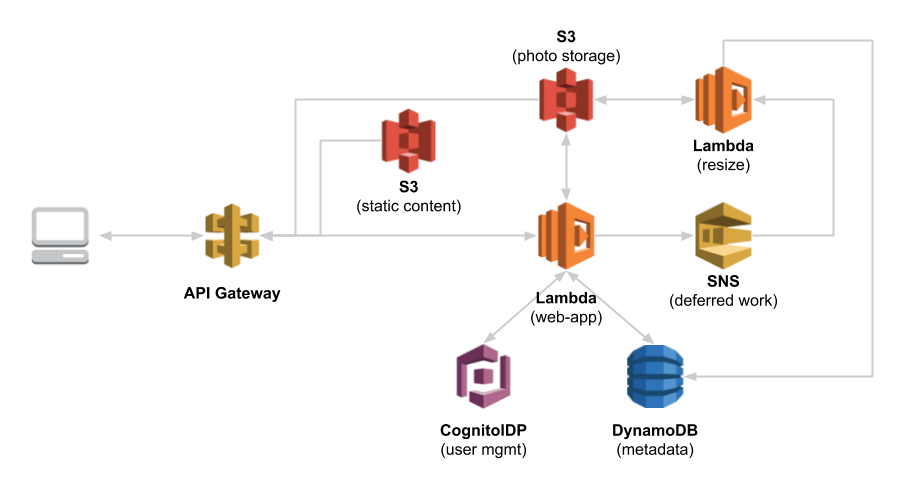
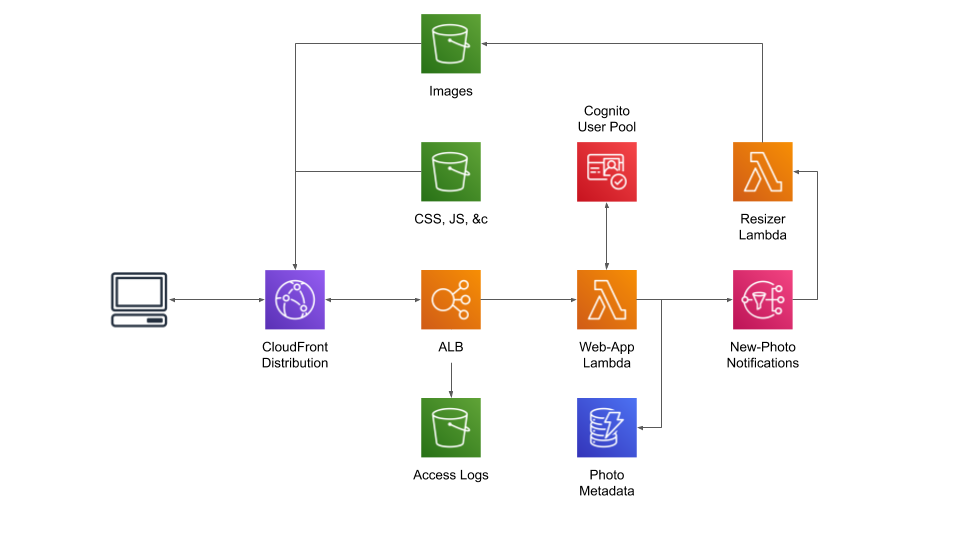
update docs

Changed region(s): [[0.031, 0.0, 0.9602, 0.949], [0.9602, 0.0918, 0.9912, 0.7653]]

diff --git a/README.md b/README.md
@@ -7,18 +7,67 @@ This project is a simple photo-sharing site with the following features:
 * Each photo will be resized to some standard "web" sizes.
 * Users can share or embed photos via link
 
-It was originally written to support a [presentation](Docs/jug_presentation.pdf)
-for the [Philadelphia Java Users Group](https://www.meetup.com/PhillyJUG/), focused
-on how you would use Java with AWS Lambda.
+I originally wrote it early in 2017 to support a [talk](Docs/jug_presentation.pdf)
+for the [Philadelphia Java Users Group](https://www.meetup.com/PhillyJUG/). Recently
+(2019) I revisited it to generally clean up the code and use what I believe are
+current best-practices (CloudFront/Application Load Balancer rather than API Gateway),
+and perhaps use it as the base for a talk on observability in distributed systems. It
+also serves as a repository of working CloudFormation snippets (something that I've
+found increasingly valuable), and as a place where I can try out new web-app-related
+services.
 
-As such, **it should not be considered production code**. In particular, don't use
-API Gateway to serve static content, use CloudFront. On the other hand, I think the
-Java side is a reasonable implementation.
+At this point I should interject that I don't think Lambda is a good implementation
+plaform for a web-app: in the best case (Python or JavaScript, running outside VPC)
+it adds a few dozen milliseconds to each request. And Java, with its long cold-start
+times, is a particularly bad choice: in my experience the time to first response is
+around 3-4 seconds (which would cause most users to hit refresh ... queueing up a new
+Lambda invocation with its own cold-start). Perhaps [GraalVM](https://www.graalvm.org/)
+will make this use-case work, but until then I'm sticking with EC2/ECS as the deployment
+platform for Java web-apps.
 
 
-## Architecture Diagram
+## Architecture 
 
 ![Architecture Diagram](Docs/architecture.png)
+
+The front-end is a fairly standard AWS web-app: CloudFront in front, serving (and caching)
+static content from S3 and dynamic content from an Application Load Balancer (ALB). The ALB
+is, by default, configured to preserve access logs in S3; this is in keeping with making an
+observable application.
+
+There are two Lambda functions: the Web-App proper and the Resizer:
+
+* The Web-App, as its name implies, handles all of the web-app's API requests. There's
+  more information about its implementation [here](Docs/webapp.md).
+* The Resizer is invoked for new file upload, at the current time using an SNS topic as
+  trigger. It transforms the uploaded image into a set number of standard sizes. The
+  choice of topic versus SQS queue was driven by Lambda not supporting SQS triggers at
+  the time this example was written.
+
+> Note: files are uploaded via the API. This dramatically limits file size: [the request
+  body is limited to 1MB](https://docs.aws.amazon.com/elasticloadbalancing/latest/application/lambda-functions.html)
+  for Lambda invocations, and that's after Base64 encoding. The next revision will
+  enable direct client upload, removing this limit.
+
+Authentication is handled via a Cognito user pool. All interaction with this user pool
+happens via the web-app, using the "admin" API. A future revision will move interaction
+into the ALB.
+
+User and photo metadata is stored in a DynamoDB table, keyed by `(userId, photoId)`. This
+design is sub-optimal for the case where there are a small number of users, because the
+database as a whole will be confined to just a few shards (perhaps one), and a user with
+a large number of photos may overwhelm the throughput of that shard. This becomes less of
+a problem as the userbase grows, because more shards will be added to the database. Still,
+to avoid problems with users that have an overwhelming number of photos, I would consider
+switching to a two-table design, where one table holds a list of photo IDs keyed by user ID
+and the other contains the photo metadata, keyed by photo ID.
+
+> One thing I would _not_ do is switch to a relational database. I originally designed this
+  project before Lambda supported running in a VPC (which would mean leaving a traditional
+  database server exposed to the Internet), and even after in-VPC Lambdas were a thing, the
+  cold-start times would have been a non-starter. However, the main reason that I went with
+  Dynamo is that it is a perfect match for the use-case: key-based retrieval of metadata
+  that can be distributed across an unbounded number of nodes.
 
 
 ## What's in the Package
@@ -35,69 +84,52 @@ Java side is a reasonable implementation.
 
 ## Building and Deploying
 
-### Building the Java components
-
-The Java components are built using Maven, with all dependencies available from Maven Central.
-
-    mvn clean install
-
-
-### Deploying to AWS
-
 Deploying the application is a multi-step process. It largely depends on CloudFormation, but
 there are a few components that have to be customized or created in advance. Fortunately,
 it's all wrapped up in a shell script:
 
-    Scripts/deploy.sh BASE_NAME BUCKET_NAME
+```
+Scripts/deploy.sh BASE_NAME BASE_BUCKET_NAME VPC_ID SUBNET_IDS
+```
 
-* `BASE_NAME` is a unique prefix for the deployed components; I use `LambdaPhoto`.
-* `BUCKET_NAME` is the name of an S3 bucket that is used by the application. This name has
-  to be globally unique in the S3 world; I recommend an inverse-hostname approach similar
-  to Java packages (eg: `com-example-lambda` -- although that's probably already in use).
+where:
+
+* `BASE_NAME` is a unique name that's used for the stack and all deployed components; I use `LambdaPhoto`.
+* `BASE_BUCKET_NAME` is used as the prefix for all buckets used by the application (there are
+   four: one each for images, static content, Lambda deployment, and ALB access logs). This
+   name must be unique in all of AWS; I recommend an inverse-hostname such as `com-mycompany-lambdaphoto`.
+*  `VPC_ID` and `SUBNET_IDS` are used to deploy the load balancer; the latter is a comma-separated
+   list of public subnets within the VPC (eg: `subnet-123456,subnet-789012`).
 
 To run this script you will need to have your default IAM profile configured, either via
 `aws configure` or environment variables.
 
-Assuming that all runs, you'll see a bunch of messages as the script generates and copies
-the deployment scripts, and it should end with a CloudFormation message like the following:
+When you run the script, it first builds the project, then creates the buckets and copies the
+deployment bundles and static content into them; you'll see various messages as this happens.
+The last thing that it does is start building the CloudFormation stack; you'll see a message
+like the following:
 
-    {
-        "StackId": "arn:aws:cloudformation:us-east-1:999999999999:stack/Example/a0ccd440-3a37-11e7-89ed-50d5ca6e60e6"
-    }
+```
+{
+    "StackId": "arn:aws:cloudformation:us-east-1:999999999999:stack/Example/a0ccd440-3a37-11e7-89ed-50d5ca6e60e6"
+}
+```
 
-At this point you've created two AWS resources, a bucket and a CloudFormation stack. You'll
-have to manually delete these when you're done with the example.
-
-The CloudFormation stack in turn creates all other components. You can monitor its progress
-via the [AWS Console](https://console.aws.amazon.com/cloudformation/home?region=us-east-1#/stacks?filter=active)
-(if you're not in the `us-east-1` region you'll need to switch regions after clicking that
-link). It will take several minutes to create all of the components, at which time the stack
-status will change to `CREATE_COMPLETE`.
-
-There aren't a lot of reasons for the stack creation to fail: the most common that I experienced
-was because I didn't build the Java packages beforehand. It's also possible that you don't
-have the permissions required to create a stack (this is likely in a corporate environment,
-unlikely if it's your personal account). In any case, if you see `ROLLBACK_COMPLETE` as the
-stack status you'll need to figure out what went wrong (look through the events), correct
-it if you can, delete the failed stack, and retry.
+It takes around 20 minutes to build the stack, largely due to the CloudFront distribution.
 
 
-### Smoketest
+## Shutting Down
 
-Curl is your new best friend:
+**Warning:** a running ALB will cost slighly under $1 per day, and you'll be charged that for
+every day that you leave this stack running. To avoid this cost, you can run the shutdown script:
 
-    curl -v -c /tmp/cookies.dat -H 'Content-Type: application/json' -d '{"email": "example@mailinator.com", "password": "MyCoolPassword123"}' https://ENDPOINT/test/api/signin
+```
+Scripts/shutdown.sh STACK_ID
+```
 
-You'll need to replace `ENDPOINT` with the actual DNS name of the endpoint, but the rest of the
-request doesn't matter: in a new deployment you won't have any users. If everything's working,
-this request should result in something like the following, and you'll see CloudWatch logs for
-the Webapp lambda function.
+where:
 
-    * Hostname was NOT found in DNS cache
-    *   Trying 52.84.86.47...
-    * Connected to 7nr07tcg55.execute-api.us-east-1.amazonaws.com (52.84.86.47) port 443 (#0)
-    ...
-    * upload completely sent off: 68 out of 68 bytes
-    < HTTP/1.1 200 OK
-    ...
-    {"data":null,"description":"Incorrect username or password","responseCode":"INVALID_USER"}
+* `STACK_ID` is the ID printed when starting the stack (you can also use the stack name).
+
+This script will delete the stack and also all buckets that were created by the `deploy` script.
+If you _don't_ want to delete the buckets, delete the stack manually using the AWS Console.

diff --git a/Docs/webapp.md b/Docs/webapp.md
@@ -1,11 +1,13 @@
 # Web-App Implementation
 
-The web-app is implemented as a single Lambda function, that expects and returns JSON formatted per the API Gateway
-Proxy [docs](http://docs.aws.amazon.com/apigateway/latest/developerguide/api-gateway-set-up-simple-proxy.html).
+The web-app is implemented as a single Lambda function, that expects to be invoked from an
+[Application Load Balancer](https://docs.aws.amazon.com/elasticloadbalancing/latest/application/lambda-functions.html).
 
 ## Request/Response Formats
 
-All requests and responses are JSON. Requests are defined by the service, and may not exist (in the case of a GET).
+Requests use a URL with the format `/api/ACTION`. They do not include additional components or
+query string parameters. All requests that provide data use a POST, with request-specific data
+as a JSON object in the request body.
 
 All response bodies have the same format: a wrapper with the following fields.
 
@@ -26,35 +28,33 @@ In addition to the `responseCode`, clients must also check the HTTP status code 
 
 ## Dispatcher
 
-Because Lambda only allows a single entry point, the web-app uses the [Front Controller](https://en.wikipedia.org/wiki/Front_controller)
-pattern, with the [Dispatcher](../Webapp-Lambda/src/main/java/com/kdgregory/example/javalambda/webapp/Dispatcher.java)
-being the entry point.
+At the time I wrote this example, the predominant way to write a Java web-app was the servlet API.
+Lambda functions, however, handled web requests using their own "event" format. While there is an
+[AWSLabs project]( https://github.com/awslabs/aws-serverless-java-container) to wrap Lambda
+request events with a servlet-compliant interface, it was developed at about the same time as
+this example and so I went down my own path.
 
-At the time this example was written, there wasn't a standard request handler for Lambda functions. The
-approach that I chose has the following steps:
+I decided to implement routing similar to that used by Node's [Express](https://expressjs.com/)
+framework: each action is associated with a handler function, and there's a simple `switch` that
+decides which function to invoke:
 
-* `Dispatcher.handler()` receives a proxy request from API Gateway and extracts relevant information,
-  including the action to be performed, the authentication tokens, and the request body. It stores all
-  of these in a `Request` object. This function is where all of the top-level exception handling lives;
-  exceptions are translated into an appropriate error status.
-* `Dispatcher.dispatch()` takes that request and identifies the service function that will handle it.
-  See below for more information.
-* The various service methods are expected to return a `Response` object or throw a catchable exception.
+```
+switch (request.getAction())
+{
+    case RequestActions.SIGNIN :
+        return invokeIf(request, HttpMethod.POST, r -> userService.signIn(r));
+    // ...
+    case RequestActions.UPLOAD :
+        return invokeIf(request, HttpMethod.POST, authorized(r -> photoService.upload(r)));
+    default:
+        return new Response(404);
+}
+```
 
-The `dispatch()` method is somewhat interesting because it uses actual lambdas (as in Java8 lambdas) to
-dispatch the request. At the top level there's a `switch` statement that looks at the request action.
-Assuming a match, the second-level check against request method is handled by the `invokeIf()` method.
-This method also takes a Java8 `Function` that accepts a `Request` and returns a `Response`, and invokes
-that function if the method matches.
-
-This approach has both positives and negatives. The primary negative is that it won't easily extend to
-multiple methods for the same action. That could be implemnted either with a varargs version of
-`invokeIf()`, or by replacing the switch with an if-else tree.
-
-On the other hand, invoking the service via a `Function` means that we can compose functions, and this
-is how authorization works: those services that need an auth check can wrap the service invocation
-with a function that performs that check. As implemented, if the auth check succeeds the `Request`
-object is updated with the ID of the user making that request.
+The `invokeIf()` method verifies that the request method matches the required method (GET or POST),
+and invokes a Java function if that's the case. This technique allows functional composition, which
+is how I managed authorization: `authorized()` takes a function and returns a new function that
+verifies the user is authorized before invoking the original function.
 
 
 ## Services
